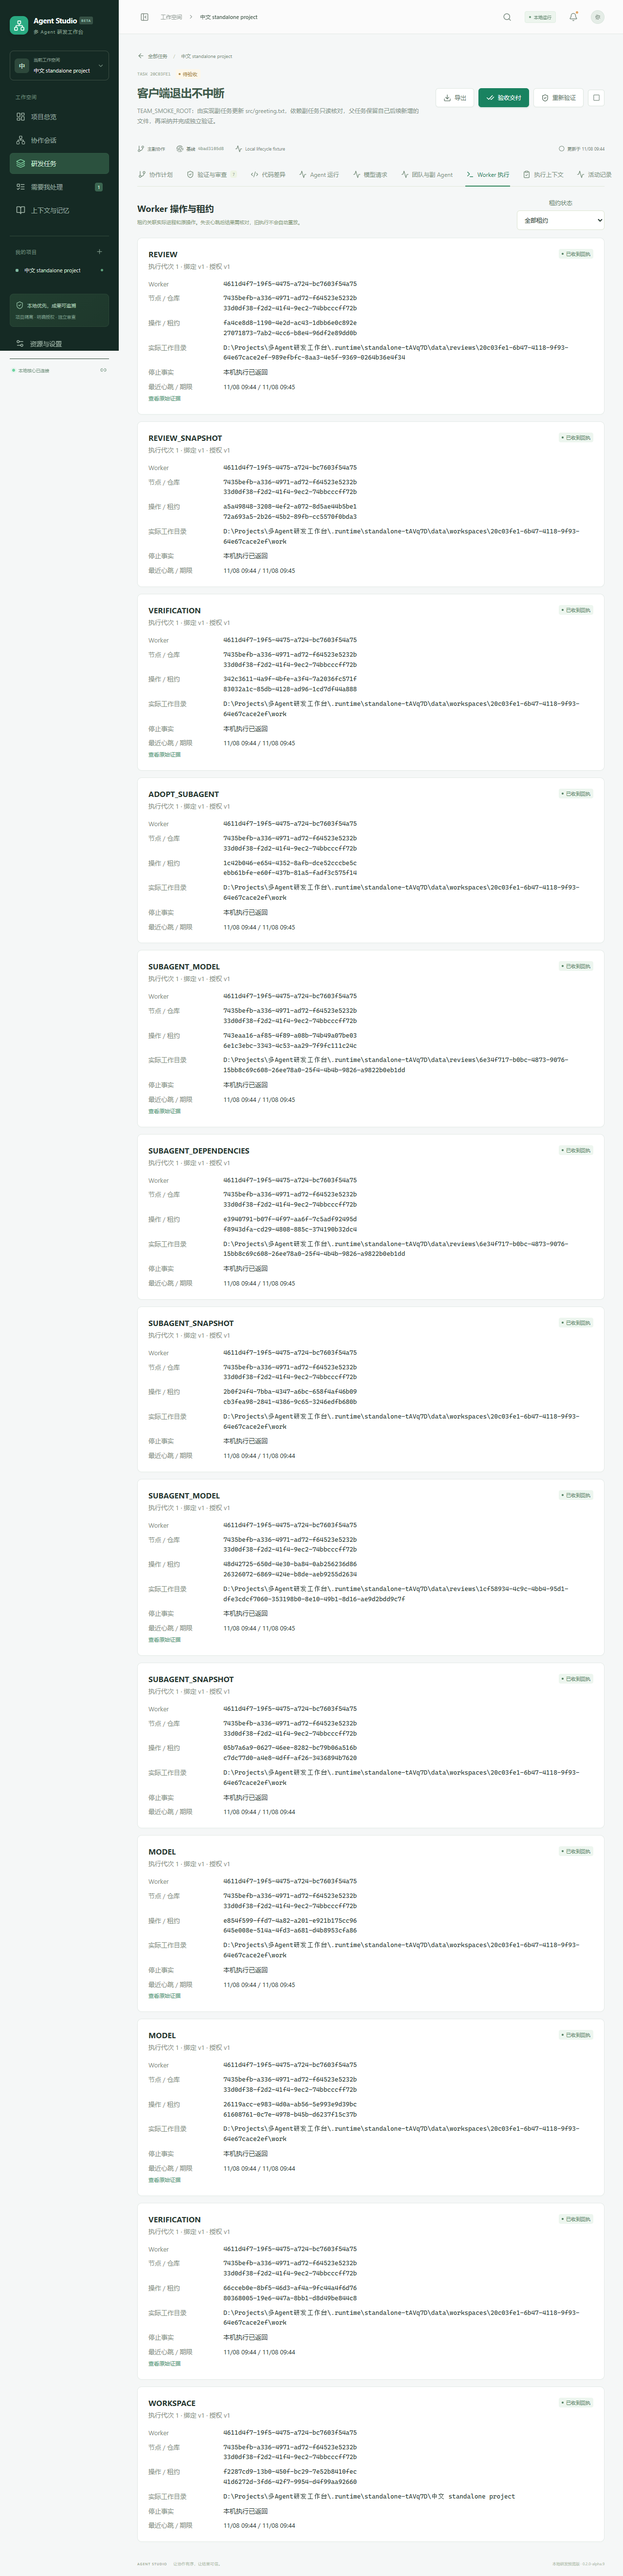
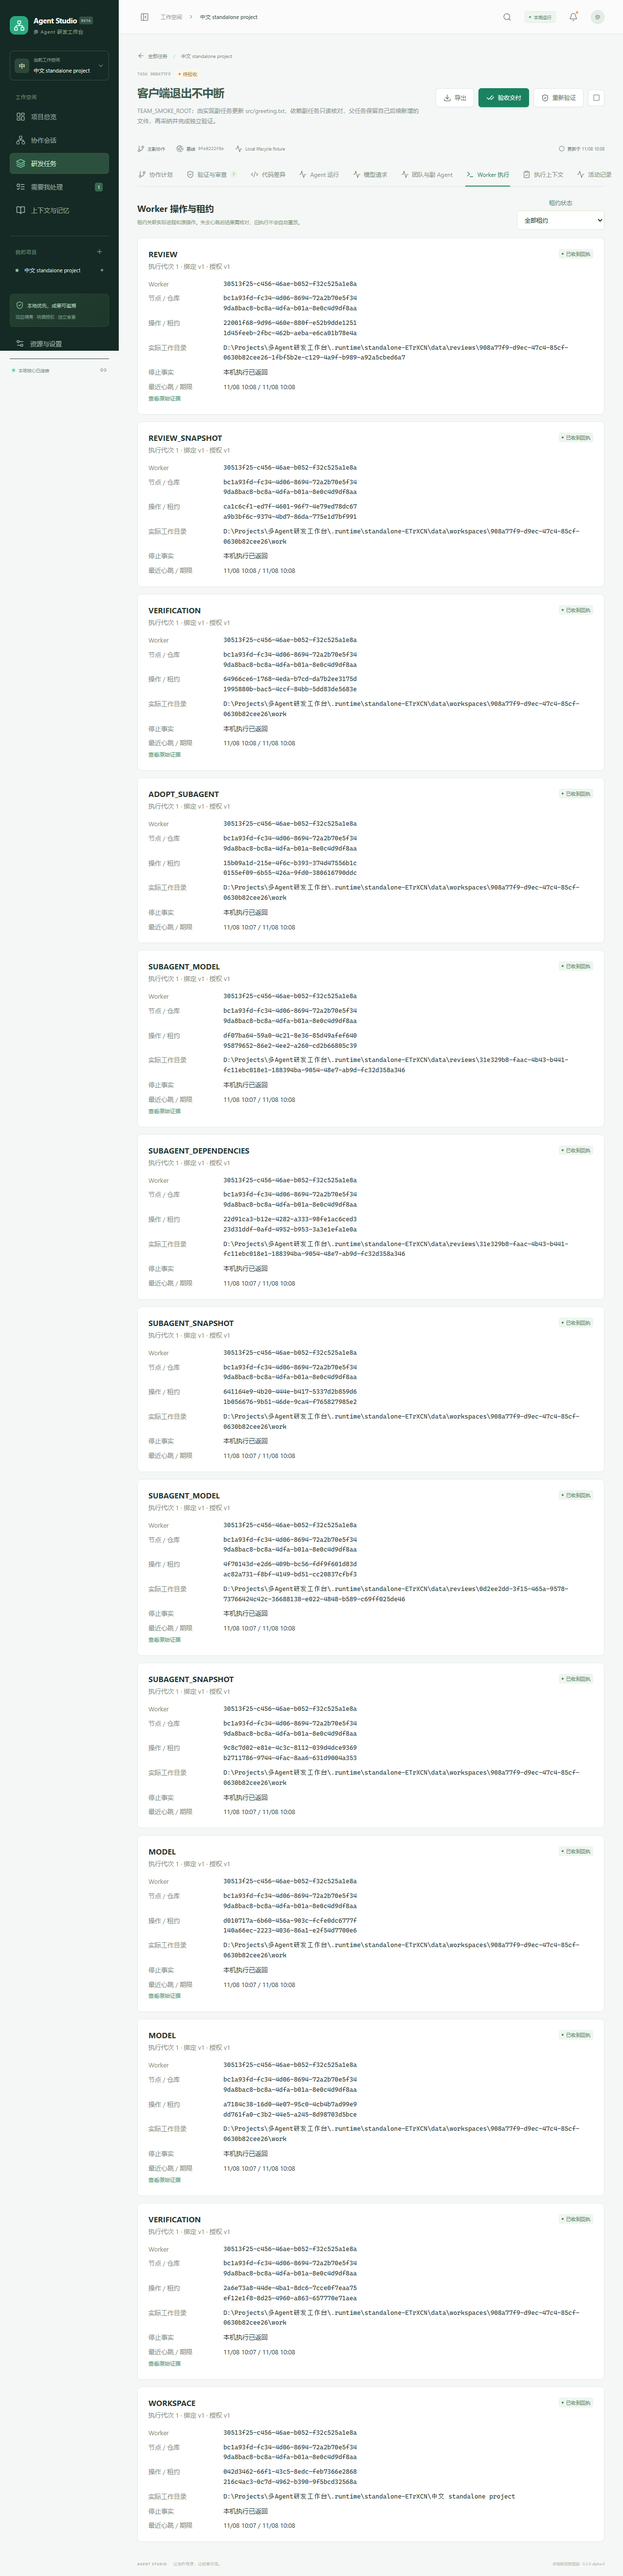
fix: serialize stop requests with execution receipts

diff --git a/core/src/main/java/dev/agentworkbench/WorkbenchEngine.java b/core/src/main/java/dev/agentworkbench/WorkbenchEngine.java
@@ -93,19 +93,7 @@ public class WorkbenchEngine {
                 refreshContext(taskId);
                 launch(taskId);
             }
-            case "pause", "cancel" -> {
-                if (Set.of("COMPLETED", "CANCELLED").contains(state)) { throw new ApiException(409, "任务已经结束"); }
-                if ("UNKNOWN".equals(state)) { throw new ApiException(409, "执行结果未知，请先核对停止状态；取消请求不能证明外部效果已撤销"); }
-                Control control = controls.get(taskId);
-                if (control == null) {
-                    store.editTask(taskId, value -> { value.put("state", "cancel".equals(action) ? "CANCELLED" : "PAUSED"); if ("cancel".equals(action)) { value.put("outcome", "CANCELLED"); } }, "CONTROL", "任务已" + ("cancel".equals(action) ? "取消" : "暂停"));
-                } else {
-                    control.request = "cancel".equals(action) ? "CANCEL" : "PAUSE";
-                    control.reason = "用户请求" + ("cancel".equals(action) ? "取消" : "暂停");
-                    store.editTask(taskId, value -> { value.put("state", "cancel".equals(action) ? "CANCELLING" : "PAUSING"); value.put("stopRequestedAt", now()); }, "STOP_REQUESTED", control.reason + "，等待运行器确认停止");
-                    workers.submit(() -> runtime.stop(taskId));
-                }
-            }
+            case "pause", "cancel" -> requestStop(taskId, action);
             case "accept" -> accept(taskId, task);
             case "reconcile" -> reconcile(taskId, task, body);
             case "budget" -> {
@@ -133,6 +121,26 @@ public class WorkbenchEngine {
             default -> throw new ApiException(404, "不支持的任务操作");
         }
         return store.get("task", taskId);
+    }
+
+    /**
+     * 同一锁内发布停止请求与状态，快速回执不能被迟写的待停止状态覆盖。
+     */
+    private void requestStop(String taskId, String action) {
+        synchronized (store) {
+            String state = str(store.get("task", taskId), "state");
+            if (Set.of("COMPLETED", "CANCELLED").contains(state)) throw new ApiException(409, "任务已经结束");
+            if ("UNKNOWN".equals(state)) throw new ApiException(409, "执行结果未知，请先核对停止状态；取消请求不能证明外部效果已撤销");
+            Control control = controls.get(taskId);
+            if (control == null) {
+                store.editTask(taskId, value -> { value.put("state", "cancel".equals(action) ? "CANCELLED" : "PAUSED"); if ("cancel".equals(action)) value.put("outcome", "CANCELLED"); }, "CONTROL", "任务已" + ("cancel".equals(action) ? "取消" : "暂停"));
+            } else {
+                control.reason = "用户请求" + ("cancel".equals(action) ? "取消" : "暂停");
+                control.request = "cancel".equals(action) ? "CANCEL" : "PAUSE";
+                store.editTask(taskId, value -> { value.put("state", "cancel".equals(action) ? "CANCELLING" : "PAUSING"); value.put("stopRequestedAt", now()); }, "STOP_REQUESTED", control.reason + "，等待运行器确认停止");
+                workers.submit(() -> runtime.stop(taskId));
+            }
+        }
     }
 
     private void reconcile(String taskId, Map<String, Object> task, Map<String, Object> body) {
@@ -305,7 +313,16 @@ public class WorkbenchEngine {
                     store.editTask(taskId, task -> { task.put("state", "FAILED"); task.put("outcome", "FAILED"); task.put("error", safeMessage(exception)); }, "FAILED", safeMessage(exception));
                 }
             } catch (RuntimeException ignored) { runtime.stop(taskId); }
-        } finally { try { executionWorker.settleTask(taskId); } finally { controls.remove(taskId, control); } }
+        } finally {
+            try { executionWorker.settleTask(taskId); }
+            finally {
+                synchronized (store) {
+                    try {
+                        if (store.healthy() && !"NONE".equals(control.request) && !Set.of("UNKNOWN", "PAUSED", "CANCELLED", "COMPLETED").contains(str(store.get("task", taskId), "state"))) stopped(control);
+                    } finally { controls.remove(taskId, control); }
+                }
+            }
+        }
     }
 
     private void modelStage(String taskId, Map<String, Object> stage, Control control, boolean reserved, String extra) throws Exception {
@@ -493,7 +510,10 @@ public class WorkbenchEngine {
     private void finish(String taskId) {
         Map<String, Object> task = store.get("task", taskId);
         enforceGates(task);
-        store.editTask(taskId, value -> { enforceContextCurrent(value); value.put("state", "AWAITING_ACCEPTANCE"); value.put("outcome", "UNDETERMINED"); value.put("readyAt", now()); }, "READY_FOR_ACCEPTANCE", "必要验证和独立审查通过，等待用户验收；尚未写入原项目");
+        store.editTask(taskId, value -> {
+            if (Set.of("PAUSING", "CANCELLING", "UNKNOWN").contains(str(value, "state"))) throw new CancellationException();
+            enforceContextCurrent(value); value.put("state", "AWAITING_ACCEPTANCE"); value.put("outcome", "UNDETERMINED"); value.put("readyAt", now());
+        }, "READY_FOR_ACCEPTANCE", "必要验证和独立审查通过，等待用户验收；尚未写入原项目");
     }
 
     private void accept(String taskId, Map<String, Object> task) {

diff --git a/core/src/test/java/dev/agentworkbench/WorkbenchEngineTest.java b/core/src/test/java/dev/agentworkbench/WorkbenchEngineTest.java
@@ -377,6 +377,36 @@ class WorkbenchEngineTest {
     }
 
     @Test
+    void stopRequestPublicationCannotOverwriteAFastCancellationReceipt() throws Exception {
+        engine.shutdown(); store.close();
+        ObjectMapper mapper = new ObjectMapper(); CountDownLatch stoppedReceipt = new CountDownLatch(1);
+        java.util.concurrent.atomic.AtomicBoolean receivedBeforePublication = new java.util.concurrent.atomic.AtomicBoolean();
+        store = new ExecutionStore(mapper, directory.resolve("cancel-race").toString()) {
+            @Override public Map<String, Object> editTask(String id, java.util.function.Consumer<Map<String, Object>> edit, String type, String message) {
+                if ("STOP_REQUESTED".equals(type)) {
+                    try { receivedBeforePublication.set(stoppedReceipt.await(500, TimeUnit.MILLISECONDS)); }
+                    catch (InterruptedException exception) { Thread.currentThread().interrupt(); throw new IllegalStateException(exception); }
+                }
+                Map<String, Object> value = super.editTask(id, edit, type, message);
+                if ("STOPPED".equals(type)) stoppedReceipt.countDown();
+                return value;
+            }
+        };
+        catalog = new WorkbenchCatalog(store, runtime, new PlanValidator()); catalog.defaults();
+        project = catalog.importProject(obj("name", "cancel race", "path", directory.resolve("source").toString()));
+        route = catalog.saveRoute(obj("name", "local race endpoint", "engine", "API", "model", "fixture", "baseUrl", "http://127.0.0.1:18901/v1", "enabled", true));
+        ResourceManager resources = new ResourceManager(); engine = new WorkbenchEngine(store, catalog, runtime, resources, mapper);
+        try (var held = resources.acquire(Map.of("model", 2), () -> false)) {
+            String taskId = str(task(16, 5), "id"); engine.action(taskId, "approve", obj()); await(taskId, Set.of("WAITING_RESOURCE"));
+            engine.action(taskId, "cancel", obj()); Map<String, Object> result = await(taskId, Set.of("CANCELLED"));
+            assertFalse(receivedBeforePublication.get());
+            assertFalse(java.time.Instant.parse(str(result, "stoppedAt")).isBefore(java.time.Instant.parse(str(result, "stopRequestedAt"))));
+            assertEquals(0, num(map(result, "budget"), "usedCalls", -1)); assertEquals("CANCELLED", store.list("agentRun").getFirst().get("state"));
+            verify(runtime, never()).run(anyMap(), anyString(), anyString(), anyString(), anyBoolean(), anyList(), any(), any(), any());
+        }
+    }
+
+    @Test
     void repeatReviewKeepsEarlierRunIdentityAndIncrementsAttempt() throws Exception {
         String taskId = str(task(16, 5), "id"); engine.action(taskId, "approve", obj());
         await(taskId, Set.of("AWAITING_ACCEPTANCE"));

diff --git a/core/src/test/java/dev/agentworkbench/TeamExecutionTest.java b/core/src/test/java/dev/agentworkbench/TeamExecutionTest.java
@@ -170,9 +170,11 @@ class TeamExecutionTest {
         Map<String, Object> request = store.list("modelRequest").stream().filter(value -> child.get("agentRunId").equals(value.get("agentRunId"))).findFirst().orElseThrow();
         assertEquals("DISPATCHING", request.get("state")); assertTrue(store.workerLeases("", taskId, "ACTIVE").stream().anyMatch(lease -> child.get("agentRunId").equals(lease.get("agentRunId"))));
         Map<String, Object> node = catalog.nodes().localNode(); catalog.nodes().saveNode(obj("id", node.get("id"), "expectedVersion", node.get("version"), "name", node.get("name"), "enabled", false));
-        awaitTask(taskId, Set.of("UNKNOWN")); int before = calls.get(); release.countDown();
-        long deadline = System.nanoTime() + TimeUnit.SECONDS.toNanos(8); while (!store.workerLeases("", taskId, "ACTIVE").isEmpty() && System.nanoTime() < deadline) Thread.sleep(50);
+        awaitTask(taskId, Set.of("UNKNOWN")); int before = calls.get();
+        long deadline = System.nanoTime() + TimeUnit.SECONDS.toNanos(8);
+        while (("DISPATCHING".equals(str(store.get("modelRequest", str(request, "id")), "state")) || !store.workerLeases("", taskId, "ACTIVE").isEmpty()) && System.nanoTime() < deadline) Thread.sleep(50);
         assertTrue(store.workerLeases("", taskId, "ACTIVE").isEmpty()); assertEquals("UNKNOWN", store.get("modelRequest", str(request, "id")).get("state"));
+        release.countDown();
         assertTrue(store.workerLeases("", taskId, "UNKNOWN").stream().anyMatch(lease -> child.get("agentRunId").equals(lease.get("agentRunId")))); assertEquals(1, num(map(store.get("task", taskId), "execution"), "nodeVersion", 0));
         engine.shutdown(); engine = null; store.close(); store = new ExecutionStore(mapper, directory.resolve("data").toString());
         catalog = new WorkbenchCatalog(store, runtime, new PlanValidator()); engine = new WorkbenchEngine(store, catalog, runtime, new ResourceManager(), mapper); engine.recover();

diff --git a/docs/implementation-status.md b/docs/implementation-status.md
@@ -8,14 +8,14 @@
 
 | 检查 | 本轮证据 |
 | --- | --- |
-| 核心最终构建 | `npm run build` 最终 139 项中 138 通过、1 项 Windows POSIX 跳过，0 失败/错误；Jar、TypeScript 与生产 Web 构建成功。包括规则来源、两类时钟失效、错误保全及副任务 UNKNOWN 的最后修正 |
+| 核心最终构建 | CI 修订后的 `npm run build` 最终 140 项中 139 通过、1 项 Windows POSIX 跳过，0 失败/错误；Jar、TypeScript 与生产 Web 构建成功。包括规则来源、两类时钟失效、错误保全、副任务 UNKNOWN、快速停止与交付收尾修正 |
 | Worker/执行归属 | 最终完整回归中的 Worker 租约 9 / 9、实际团队 11 / 11；真实 Git/HTTP 覆盖绑定版本更新、草稿换仓库/规则历史、节点撤回/子请求 UNKNOWN 与重启不重放；定向修正后的 10 / 10 为补充证据 |
 | 浏览器 | 全量 35 / 35；6 项新增覆盖 1440px/430px 来源、未知停止事实、历史游标、配置冲突/输入保全、创建时固定绑定和授权版本刷新；截图已查看 |
 | Jar 集成 | 最终 Jar 的本机协议 28 / 28；实际两名副 Agent、依赖采纳、共享根预算、原模型/MCP/Worker 来源、一次派发和 ZIP 去除领取摘要均核对；[Windows 协议报告](./qa/smoke-win32.json) |
 | 独立运行 | 真实最终 Jar/生产 Web/同源代理核对实际 Worker PID；关闭会话、浏览器和附加桌面后，同一副请求与租约均保持原编号、不重放。随后 18 次根模型调用、两名副 Agent、13 条 Worker 回执及一次实际 MCP 派发完成；无页面或模型夹具异常。[Windows 独立报告](./qa/standalone-win32.json)及[真实 Worker 截图](../web/qa/worker-real-win32.png) |
 | Windows 打包运行 | `npm run package:prepared` / `npm run test:packaged` 均成功；NSIS 与 packaged=true 程序为 alpha.9，禁用外部 Java 后以内置 Java 启动，API 200、无页面异常、正常退出。打包核心 SHA-256 与最终验证 Jar 一致；[Windows 打包报告](./qa/desktop-packaged-win32.json)。本轮未重复完整安装/卸载验收 |
-| 代码及连接审查 | 15 份受改 Java 文件的 29 条已有注释原文保留，新 Javadoc 为标准多行；版本一致性、脚本语法、diff whitespace 通过；连接策略 3 / 3，API 兼容仍独立于数据库版本 |
-| 三端 CI | 本机验收已通过；推送后核对本次最终 SHA 的 Windows/macOS/Ubuntu Actions 结果，alpha.8 已通过是历史证据 |
+| 代码及连接审查 | 首个提交 15 份受改 Java 文件的 29 条已有注释原文保留；CI 修订的三份 Java 文件六条基线注释也逐项保留，新 Javadoc 为标准多行；版本一致性、脚本语法、diff whitespace 通过；连接策略 3 / 3，API 兼容仍独立于数据库版本 |
+| 三端 CI | 首个提交 `8c37fb0` 的 [run 42435846414](https://github.com/lihe-he/multi-agent/actions/runs/42435846414) 为 Windows 成功、macOS/Ubuntu 核心失败；具体竞态与夹具修订见[审查记录](./research/worker-leases-2026-11-08.md)。修订本机验收已通过，推送后核对修订 SHA 的三端结果 |
 
 SQLite schema 为 4，API 仍为 1。当前 Worker 的实际执行方式为 CORE_PROCESS，不代表独立远程执行进程或已交付的设备配对。原工具磁盘账本、模型预算和 MCP 停止明细保留；完整持久队列、独立 Worker、远程重连/旧进程核对、PTY、角色/写入租约、workflow 与其他 F01–F21/计划退出条件继续实施。
 

diff --git a/docs/research/worker-leases-2026-11-08.md b/docs/research/worker-leases-2026-11-08.md
@@ -30,6 +30,10 @@
 
 新增规则切换与时钟回归后的首轮 139 项中，备用仓库准备场景有一项 UNKNOWN。新克隆未显式沿用夹具的 `core.autocrlf=false`，现已在克隆及仓库配置中固定；修正后该实际执行场景与 Worker 九项定向回归合计 10 / 10 通过。第一次失败的原错误被租约通用收尾原因覆盖，不能从最终任务错误完整归因；已修复该来源保全问题。该次完整失败与线程快照保留于 `.runtime/alpha9-rule-clock-attempt1/` 及 `.runtime/alpha9-build-threads.txt`，最终结果另行记录，不以定向通过代替完整构建。
 
+首个推送提交 `8c37fb0950fd6d6a9d99c1c40ec3ce0b5132604b` 的 [run 42435846414](https://github.com/lihe-he/multi-agent/actions/runs/42435846414) 已结束：Windows 成功，macOS/Ubuntu 核心回归失败。两端的节点撤回用例在根 UNKNOWN 后立即释放子 HTTP，子请求可以先收到真实成功回执；现改为先等待具体子请求的停止观测和租约收尾。模型请求状态保留已收到的真实回执，执行证据及副任务结果另按租约归属判断。Ubuntu 另暴露实际取消竞态：停止回执先于 STOP_REQUESTED 写入，随后 CANCELLING 覆盖 CANCELLED。停止请求/状态现同锁发布，收尾处理最后的请求，待停止不能进入交付；新增故意延迟请求写入的回归核对事件时间和零派发/零预算。失败日志及终态保留在 `.runtime/ci-alpha9-attempt1/`。
+
+修订后定向 3 / 3，最后完整核心 140 项中 139 通过、1 项 Windows POSIX 跳过。修订 Jar 协议 28 / 28、打包程序及最终 Jar 同一性均通过。并行打包时独立用例未在旧固定十秒内进入副请求，清理后的现场已有后续副请求和关闭服务产生的错误，不能用于准确判断清理前原因；现按实际状态有界观察、异常状态提前失败并写清理前记录，单独重验成功。该次失败日志和现场保留在 `.runtime/alpha9-ci-fix-final-standalone.log` / `.runtime/standalone-lBraKu/`。最终三端结果只按后续修订提交核对。
+
 浏览器 1440px/430px 验证真实字段展示、配置版本冲突/输入保全、草稿任务固定绑定、执行授权刷新、租约 UNKNOWN 原因/来源/历史游标/证据定位与纯文本处理。截图经过实际查看，最终完整构建、Jar、打包与三端提交 CI 证据以实施记录为准。
 
 远程主机身份与配对、Worker 独立进程与持久队列、旧进程树跨重启核验、终端/PTY、任意 workflow/角色租约、完整备份、保留策略与长期验收仍继续实施。本轮基础不能替代 F01–F21 或 M0–M3 全部退出条件。

diff --git a/CHANGELOG.md b/CHANGELOG.md
@@ -8,6 +8,7 @@
 - 证据、操作 ACK、租约结束及副成果采纳回执共用事务，事务失败封闭新增派发。根人工核对同时检查 Worker 在途领取，旧记录保持原样。
 - 设置提供节点/仓库版本编辑，创建与执行计划展示固定来源，任务 Worker 页支持状态筛选、历史分页、实际来源和证据定位；新授权显式核对版本并保留原成果。草稿切换绑定时固定新源目录的项目规则，原规则进入历史；未知租约收尾保留最初的执行错误。
 - 模型请求与固定 MCP 来源包含实际 Worker/租约；ZIP 增加 execution.json、workers.json 和去除领取摘要的 worker-leases.json。SQLite schema 升为 4，API 仍为 1。
+- 修复快速取消回执被迟写的 CANCELLING 覆盖：停止请求与状态原子发布，执行收尾处理最后的停止请求，交付门禁不能覆盖待停止状态。独立运行验收按真实任务状态有界等待，并在夹具清理前保留失败现场。
 
 协议见 `docs/worker-contract.md`；固定提交的 Kubernetes、Temporal 和 VS Code 源码及失败记录见 `docs/research/worker-leases-2026-11-08.md`。当前 Worker 在本机核心进程中运行，独立进程、远程配对/重连、PTY、workflow 与完整发布验收继续实施。
 
